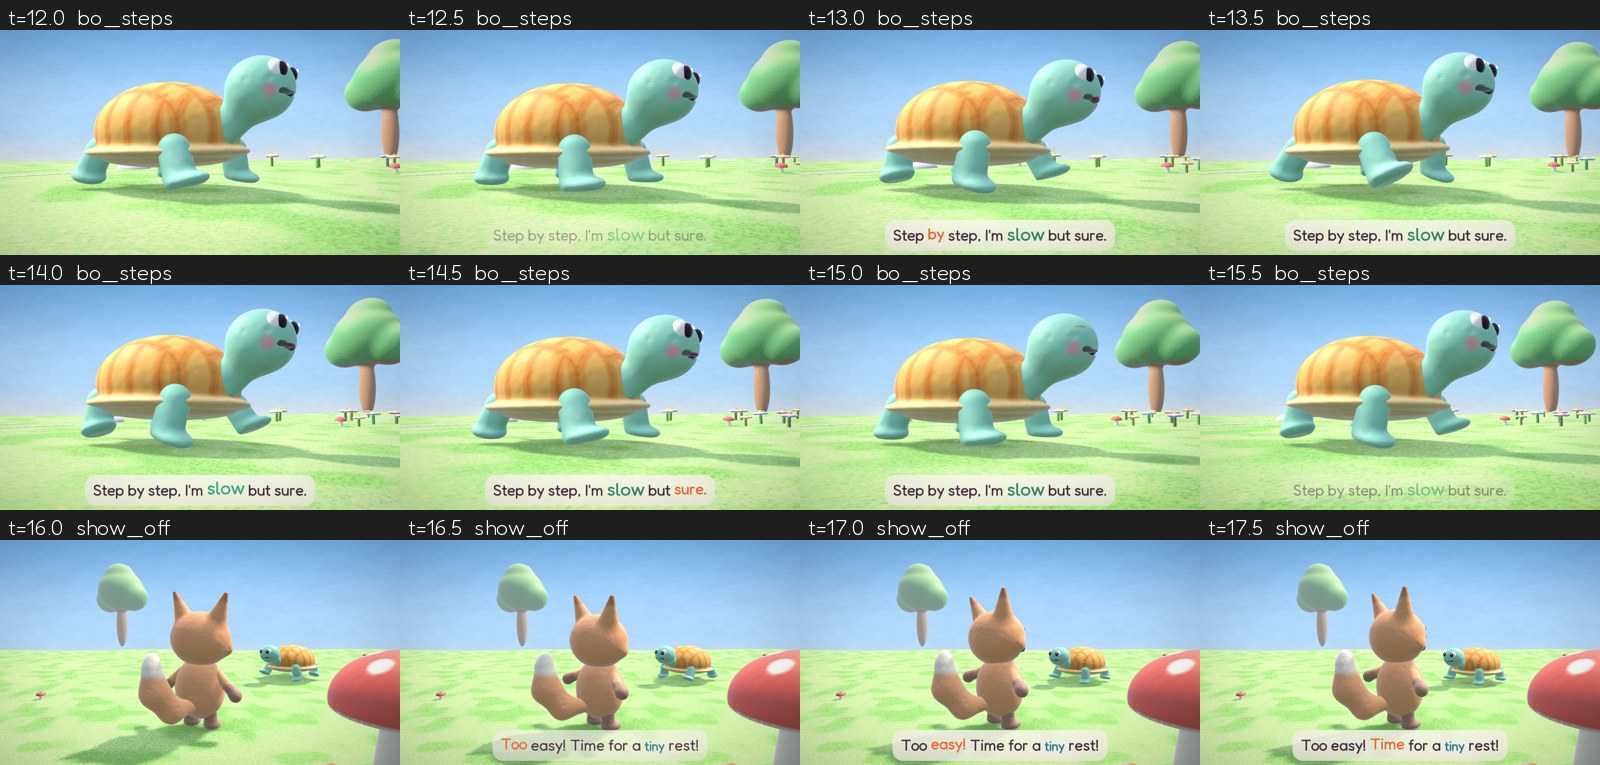
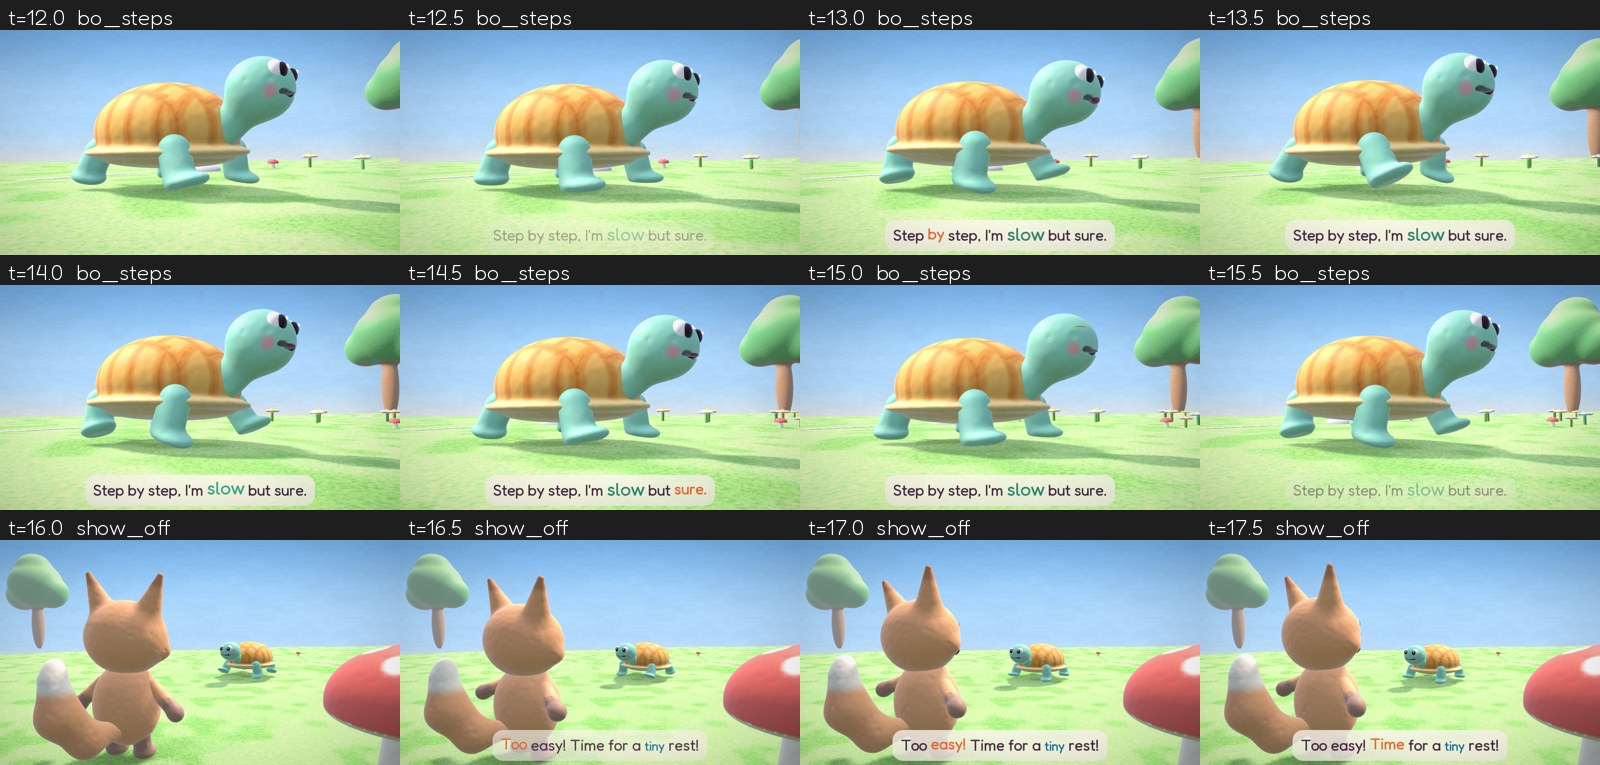
Fable 4: round-2 review fixes (show-off distance, side-on stump shot, wake, wave)
Claude-Session: https://claude.ai/code/session_014V3fxhp9FCSDpE2UtNdN7a

diff --git a/batches/01-fables-friendship/fable-04-slow-and-steady-bo/code/render.py b/batches/01-fables-friendship/fable-04-slow-and-steady-bo/code/render.py
@@ -33,10 +33,10 @@ BO_S = 1.15
 STUMP_S = 1.3; STUMP = C(15.0, 0.55); STUMP_TOP = 0.55 * STUMP_S - 0.02; STUMP_ROT = 1.2
 S_TOUCH = 13.0                                               # Bo's nose on the stump
 RUN_S = 11.0                                                 # where Tumble skids to a stop
-NAP = C(11.8, -1.35); NAP_YAW = math.atan2(NRM[0], NRM[1])   # lying on his side, face to the course-side cameras, head up-course under the mushroom, head towards the finish
-MUSH1 = C(10.35, -3.5); MUSH1_S = 1.5                        # the giant mushroom his snores puff
+NAP = C(11.3, -1.35); NAP_YAW = math.atan2(NRM[0], NRM[1])   # lying on his side, face to the course-side cameras, head up-course under the mushroom, head towards the finish
+MUSH1 = C(9.85, -3.5); MUSH1_S = 1.5                        # the giant mushroom his snores puff
 MUSH2 = C(8.2, -3.8); MUSH2_S = 1.05
-PEB = C(0.25, -2.0)                                          # Pip's referee pebble
+PEB = C(1.3, -2.0)                                          # Pip's referee pebble
 PEB_TOP = 0.07 * 3.0
 FIN_T = C(11.3, 2.5)                                        # Tumble skids in here
 FIN_LOOK = (NRM - DIR * 0.6) / np.linalg.norm(NRM - DIR * 0.6)   # the finish camera's side
@@ -53,7 +53,7 @@ def P3(p, y=0.0): return np.array([p[0], ground_at(p) + y, p[1]])
 
 # ---------------- Bo ----------------
 def bo_s_at(t):
-    return S_TOUCH * clampu(t, T.GO, T.BO_TOUCH) ** 1.15      # a steady plod that settles into its stride
+    return S_TOUCH * clampu(t, T.GO, T.BO_TOUCH) ** 1.4       # a steady plod that settles into its stride
 def bo(t):
     n = T.shot_at(t)[1]
     st = dict(p=C(0.0, LANE_B), yaw=YAW_RUN, walk=0.0, head=[0.0, 0.0], y=0.0, roll=0.0, legwave=0.0)
@@ -187,7 +187,7 @@ def tumble(t):
             v = clampu(t, T.SPIN[0], T.SPIN[1])
             st["y"] += 0.7 * math.sin(math.pi * min(v * 2.0, 1.0) / 2) * (1 - clampu(v, 0.8, 1.0))   # springs up and hangs in the air
             ph = t * 2 * math.pi * 7
-            st["legs"] = [0.3 * max(0, math.sin(ph)), 0.3 * max(0, -math.sin(ph))]       # legs pump in mid-air
+            st["legs"] = [0.42 * max(0, math.sin(ph)), 0.42 * max(0, -math.sin(ph))]       # legs pump in mid-air
             st["arms"] = [[0.5, 1.2], [0.5, 1.2]]; st["pitch"] = -0.1
         elif t >= T.SPIN[1]:
             dd = t - T.SPIN[1]; s = 4.5 * dd ** 1.0
@@ -220,11 +220,11 @@ def tumble(t):
         a = SH["button_crane"][0]; st["x"], st["z"] = MSPOT; st["yaw"] = -0.05
         down = ease(clampu(t, a + 0.45, a + 0.85))
         wv = math.sin((t - a) * 9) * clampu(t, a + 0.3, a + 0.6)
-        st["arms"] = [lerp(DANCE_ARM, [0.9, 2.3 + 0.3 * wv], down).tolist(), [0.3, 0.3]]
+        st["arms"] = [lerp(DANCE_ARM, [2.3 + 0.25 * wv, 0.3], down).tolist(), [0.3, 0.3]]   # paw up beside his head, waving
     return st
 def snore_amt(t):
     """0..1 puff of the snore (big on the spoken snores, gentle breathing otherwise)"""
-    v = 0.25 * (0.5 + 0.5 * math.sin(t * 2.2))
+    v = 0.45 * (0.5 + 0.5 * math.sin(t * 2.2))
     for s0 in T.SNORES:
         d = t - s0
         if 0 <= d < 0.9: v = max(v, math.sin(math.pi * d / 0.9))
@@ -321,11 +321,11 @@ def camera(t):
         p = P3(b["p"], 0.55)
         return fit_cam(p + np.array([DIR[0], 0, DIR[1]]) * 0.35, yaw_of(NRM) + 35, -2, 1.3, 1.0, lift=0.12)
     if name == "show_off":                                   # behind Tumble's shoulder, looking back up the course to tiny Bo
-        p = C(RUN_S, LANE_T)
-        return fit_cam(np.array([p[0], 1.35, p[1]]), yaw_of(DIR) + 52, 6, 1.9 if not WIDE else 2.4, 1.8, lift=0.05)
+        p = C(RUN_S - 1.6, LANE_T + 0.2)
+        return fit_cam(np.array([p[0], 1.25, p[1]]), yaw_of(DIR) + 40, 6, 2.6 if not WIDE else 3.0, 1.8, lift=0.05)
     if name == "lie_down":                                   # medium, from the far side of the course
-        c = (C(RUN_S, LANE_T) + NAP) / 2 + DIR * 0.5
-        return fit_cam(np.array([c[0], 1.0, c[1]]), yaw_of(NRM) + SG * lerp(8, 4, e), 16, 2.8 if not WIDE else 3.2, 2.0)
+        c = (C(RUN_S, LANE_T) + NAP) / 2 + DIR * (0.5 if not WIDE else 0.1)
+        return fit_cam(np.array([c[0], 1.0, c[1]]), yaw_of(NRM) - SG * lerp(34, 28, e), 16, 2.8 if not WIDE else 3.2, 2.0)
     if name == "snore":                                      # close on the snoring face and the mushroom
         hd = NAP - DIR * 0.9
         return fit_cam(np.array([hd[0], 0.85, hd[1]]), yaw_of(NRM) + SG * lerp(12, 6, e), 12, 1.5, 1.1)
@@ -333,11 +333,11 @@ def camera(t):
         c = (NAP - DIR * 0.3 + b["p"]) / 2
         return fit_cam(np.array([c[0], 0.7, c[1]]), yaw_of(NRM) + SG * lerp(20, 30, e), 30, 2.9 if not WIDE else 3.6, 2.0)
     if name == "bo_near":                                    # side-on at the stump: Bo plods in, nose to the stump, Pip waves the flag on top
-        c = (STUMP + b["p"]) / 2 + DIR * 0.3
-        return fit_cam(np.array([c[0], 0.85, c[1]]), yaw_of(NRM) - lerp(34, 22, e), 5, 2.3 if not WIDE else 3.6, 1.7, lift=0.1)
+        c = (STUMP + b["p"]) / 2 + DIR * 1.0
+        return fit_cam(np.array([c[0], 0.85, c[1]]), yaw_of(NRM) + lerp(6, 0, e), 5, 2.3 if not WIDE else 3.0, 1.7, lift=0.1)
     if name == "wake":                                       # medium side: the jolt and the spinning legs
         c = NAP - DIR * 0.2
-        return fit_cam(np.array([c[0], 1.1, c[1]]), yaw_of(NRM) - SG * 12, 34, 2.6 if not WIDE else 3.4, 2.1)
+        return fit_cam(np.array([c[0], 1.1, c[1]]), yaw_of(NRM) - SG * 14, 20, 2.3 if not WIDE else 3.0, 2.1)
     if name == "finish":                                     # low wide past the stump: Bo touches, Tumble skids in
         c = (C(S_TOUCH + 1.0, LANE_B) + FIN_T) / 2
         return fit_cam(np.array([c[0], 0.95, c[1]]), yaw_of(NRM) + lerp(-6, 6, e), 10, 2.7 if not WIDE else 4.2, 1.9, lift=0.03)

diff --git a/batches/01-fables-friendship/fable-04-slow-and-steady-bo/code/timeline.py b/batches/01-fables-friendship/fable-04-slow-and-steady-bo/code/timeline.py
@@ -98,7 +98,7 @@ def _word_end(L, key):
 # behind Bo, "Well done, Bo!", then the moral. Every split is clamped so no shot gets a negative length.
 NEAR_SPLIT = min(_word_end(_lt, "tumble") + 0.1, _tw[1] - 2.6)   # Pip calls from the finish...
 WAKE = NEAR_SPLIT                              # ...cut to Tumble, who hears his name and jolts up
-WAKE_SPLIT = WAKE + 1.15                       # legs spin, cut to the finish
+WAKE_SPLIT = WAKE + 1.4                        # legs spin, cut to the finish
 FIN_END = max(WAKE_SPLIT + 1.45, _m[0])        # the moral shot starts when the good-sport cheer is done
 SHOTS = [(0.0, _h[1], "start_line"), (_s[0], _s[1], "title_wide"), (_sa[0], _sa[1], "zoom"), (_sb[0], _sb[1], "bo_steps"),
          (_pa[0], LIE_SPLIT, "show_off"), (LIE_SPLIT, _pa[1], "lie_down"), (_pb[0], SNORE_SPLIT, "snore"),
@@ -117,7 +117,7 @@ EASY = (word_times("easy", "Problem A") or [_pa[0] + 0.6])[0]
 LIE = LIE_SPLIT + 1.0                          # lies down in the shade, eyes shut
 _lb = line("Problem B")
 SNORES = [_lb["t1"] + 0.4 + k * 1.2 for k in range(3) if _lb["t1"] + 0.4 + k * 1.2 < _pb[1] - 0.6]
-SPIN = (WAKE + 0.25, WAKE + 0.85)              # legs spin in the air before he takes off
+SPIN = (WAKE + 0.2, WAKE + 1.0)              # legs spin in the air before he takes off
 BO_TOUCH = _tw[0] + 2.0                        # Bo's nose touches the stump in the race break, before Pip's call
 FOX_ARRIVE = WAKE_SPLIT + 0.45                 # Tumble zooms in a moment later and skids to a stop
 CHEER = max(FOX_ARRIVE + 0.2, _lt["t1"] + 0.55)   # after Pip's caption clears
